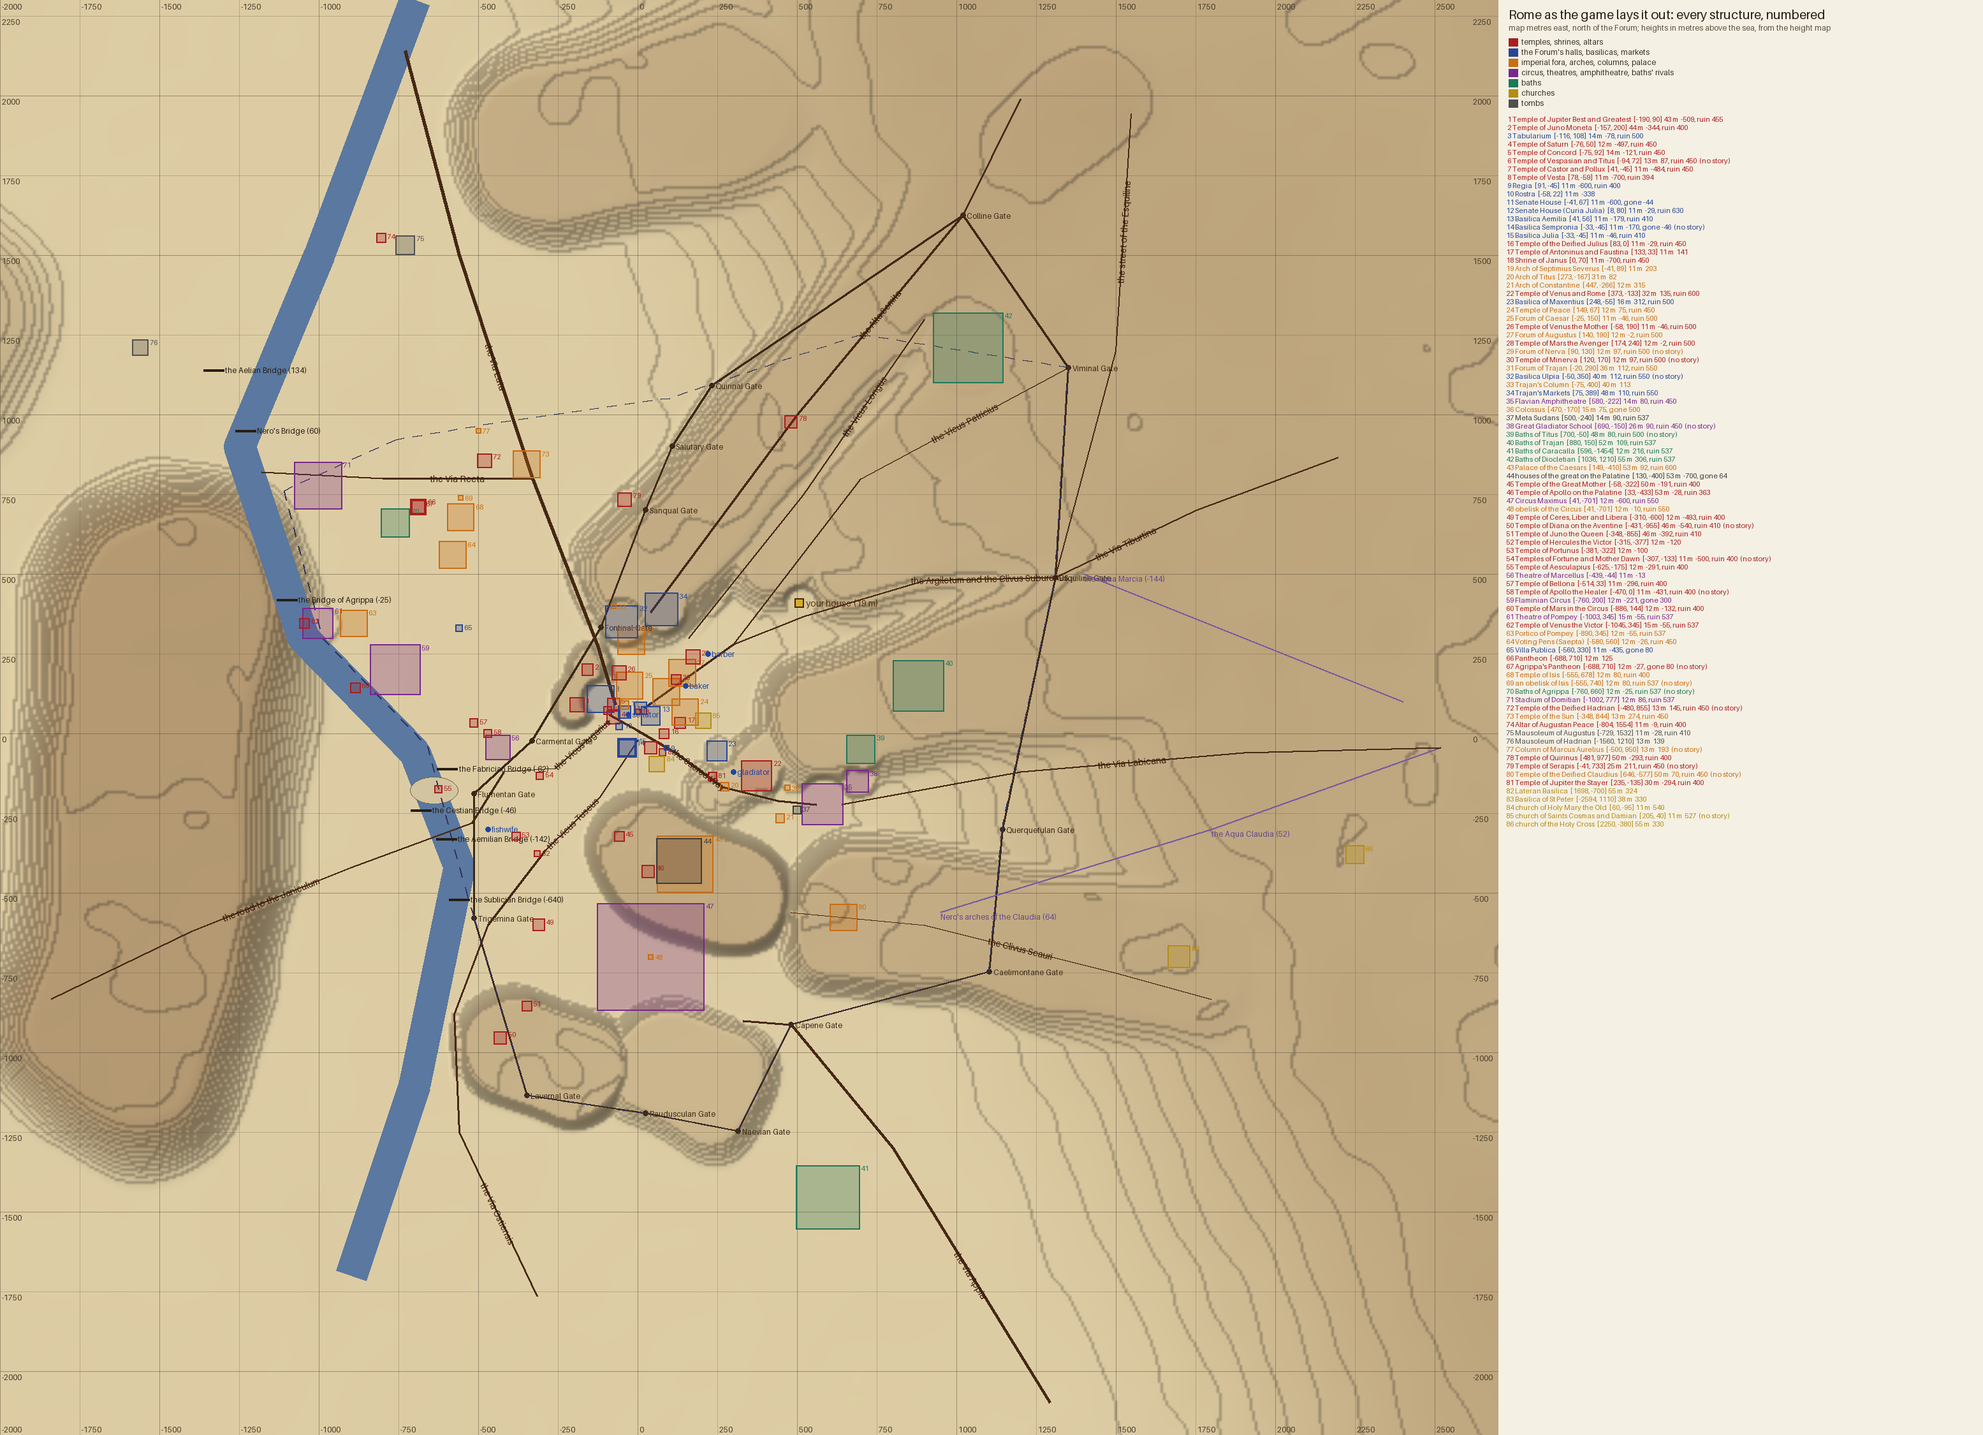
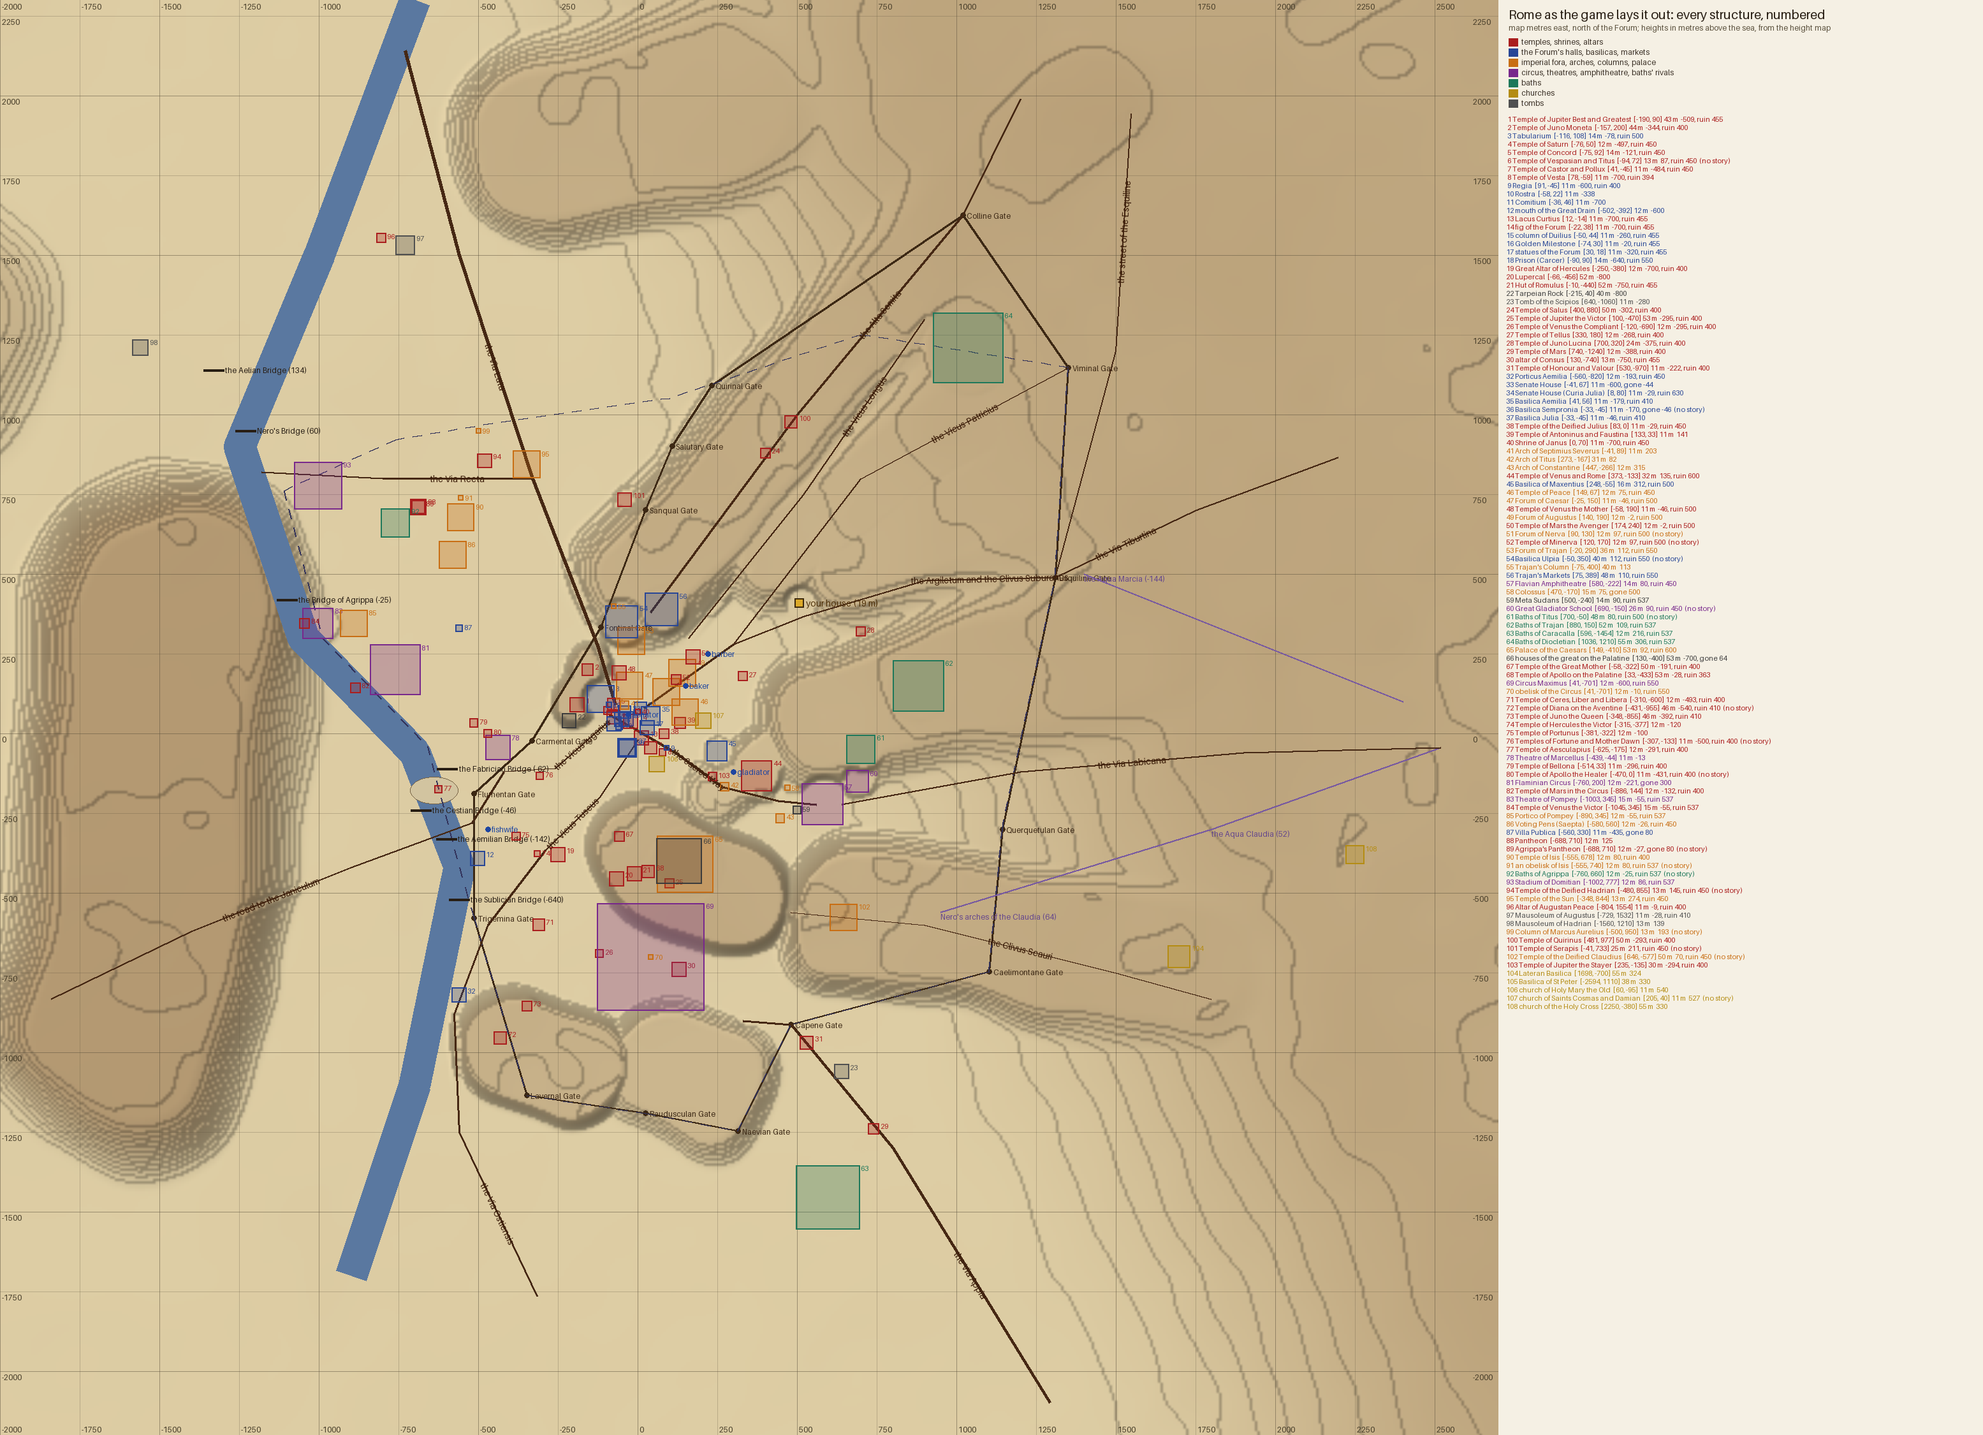
Built on what was there: the wall's towers, the kit's wolf and beasts, the map's landmarks
- The two tower monuments are gone: rome_map._servian_wall already builds a tower at every gate.
  Their notes, and one for each other gate, are read beside the gates (streets.json "gates").
- The fig's wolf is kit_rome.she_wolf; the flock's sheep and the cart's mules are
  kit_greek.beast.
- The Lupercal, the Hut of Romulus, the Tomb of the Scipios, Mars and Honos et Virtus are placed
  by republican_rome.json's landmarks and gates; the hill vegetation reads the map's hills.
- The Scipios' epitaph is on their tomb only, not on the road's list too.
- The corner names use the game's lapidary font; docs/rome-plot.png and .csv regenerated with
  the new structures.

Claude-Session: https://claude.ai/code/session_01AARYbqC8yC2UvqKJzaBPka

diff --git a/tools/make_rome_sites.py b/tools/make_rome_sites.py
@@ -47,15 +47,15 @@ NEW = [
     {"id": "ara_maxima", "name": "the Great Altar of Hercules", "kind": "altar_open", "at": [-250, -380], "face": 0, "from": -700, "ruin": 400,
      "note": "The Ara Maxima in the cattle market: the altar of Hercules, who killed the giant Cacus on the Aventine and recovered his stolen cattle here. The oldest cult in Rome, older than the city, kept by the Potitii and Pinarii until the state took it over; merchants tithe their profits to it; women may not attend and dogs are kept away.",
      "fall": "A block of tufa in the cattle market, the altar of a god nobody sacrifices to."},
-    {"id": "lupercal", "name": "the Lupercal", "kind": "cave", "at": [10, -300], "face": 350, "from": -800,
+    {"id": "lupercal", "name": "the Lupercal", "kind": "cave", "at": [-66, -456], "face": 250, "from": -800,
      "note": "The wolf's cave at the foot of the Palatine, where the she-wolf suckled the twins. On the fifteenth of February the Luperci, young men naked but for goat-skins, sacrifice goats and a dog here, and run round the hill striking the women they meet with thongs of the skins, for fertility. Antony offered Caesar a crown here in 44 BC. It goes on under Christian emperors until a pope stops it in 494.",
      "fall": "A cave under the Palatine's rock. The Lupercalia was stopped fifty-eight years ago; the last runners were senators."},
-    {"id": "casa_romuli", "name": "the Hut of Romulus", "kind": "hut", "at": [60, -330], "face": 20, "from": -750, "ruin": 455,
+    {"id": "casa_romuli", "name": "the Hut of Romulus", "kind": "hut", "at": [-10, -440], "face": 250, "from": -750, "ruin": 455,
      "note": "The Casa Romuli on the Palatine's slope toward the Circus: a round hut of wattle and thatch, kept up as it was in the founder's day by the priests, and rebuilt in the same materials every time it burns, which is often. Under the emperors it is a shrine among marble palaces, and they keep it.",
      "fall": "A ring of stones where the hut of the founder stood until the last fire, which nobody rebuilt after."},
     {"id": "tarpeia", "name": "the Tarpeian Rock", "kind": "rock", "at": [-215, 40], "face": 160, "size": 1.0, "from": -800,
      "note": "The cliff of the Capitol above the Forum, named for the girl who let the Sabines in and was crushed under their shields. Traitors, perjurers and runaway slaves are thrown from it. Manlius, who saved the Capitol from the Gauls, was thrown from the rock he saved."},
-    {"id": "scipios_tomb", "name": "the Tomb of the Scipios", "kind": "tomb", "tomb": "round", "at": [330, -1090], "face": 60, "from": -280,
+    {"id": "scipios_tomb", "name": "the Tomb of the Scipios", "kind": "tomb", "tomb": "round", "at": [640, -1060], "face": 330, "from": -280,
      "note": "The family tomb of the Cornelii Scipiones, cut into the tufa just inside the Capene Gate where the Appian Way begins: Scipio Barbatus, consul of 298 BC, in his carved sarcophagus, and his sons and grandsons in their niches, each with his verses in the old letters. Africanus is not here; he died angry at Rome and lies at Liternum.",
      "fall": "A tomb cut in the rock by the old gate, its sarcophagi robbed. The letters on them are the oldest Latin verses that survive."},
     {"id": "salus", "name": "the Temple of Salus", "kind": "temple", "at": [400, 880], "face": 200, "size": 0.7, "from": -302, "ruin": 400,
@@ -68,22 +68,21 @@ NEW = [
      "note": "The temple of the Earth (Tellus) on the Carinae, vowed in 268 BC in a battle with the Picentes during which the ground shook. It stands where the house of Spurius Cassius stood, pulled down when he was executed for aiming at kingship. A map of Italy is painted on its wall. The Senate met here on the day after Caesar's murder."},
     {"id": "juno_lucina", "name": "the Temple of Juno Lucina", "kind": "temple", "at": [700, 320], "face": 220, "size": 0.65, "from": -375, "ruin": 400,
      "note": "Juno who brings to light: the goddess of childbirth, on the Esquiline in her sacred grove, dedicated in 375 BC. On the first of March, the Matronalia, the married women of Rome climb here with their daughters and pray with their hair loose and every knot untied."},
-    {"id": "mars_capena", "name": "the Temple of Mars", "kind": "temple", "at": [420, -1180], "face": 300, "size": 0.75, "from": -388, "ruin": 400,
+    {"id": "mars_capena", "name": "the Temple of Mars", "kind": "temple", "at": [740, -1240], "face": 320, "size": 0.75, "from": -388, "ruin": 400,
      "note": "Mars outside the Capene Gate on the Appian Way, dedicated in 388 BC after the Gauls: the god of war kept outside the walls, as the old rule required. The army musters here before it marches out; the knights ride from here in July in their parade; the road from the gate to the temple was the first paved in Rome.",
      "fall": "Mars outside the gate, roofless. The road the army marched out on is grass between its stones."},
     {"id": "consus", "name": "the altar of Consus", "kind": "altar_open", "at": [130, -740], "face": 0, "from": -750, "ruin": 455,
      "note": "The buried altar of Consus, the god of the stored harvest, at the far turning post of the Circus, dug out only for his festival in August and December, when the horses and mules are garlanded and race, and the priests sacrifice on it. Romulus held his games for Consus here, and the Sabine women were carried off from them.",
      "fall": "A hollow at the end of the Circus's grass where an altar is buried. Nobody digs it out any more."},
-    {"id": "honos_virtus", "name": "the Temple of Honour and Valour", "kind": "double_temple", "at": [470, -1020], "face": 320, "size": 0.35, "from": -222, "ruin": 400,
+    {"id": "honos_virtus", "name": "the Temple of Honour and Valour", "kind": "double_temple", "at": [530, -970], "face": 320, "size": 0.35, "from": -222, "ruin": 400,
      "note": "Honos and Virtus by the Capene Gate: Marcellus, who took Syracuse in 212 BC, vowed a temple to both and the pontiffs would not let one temple hold two gods, so his son built two cells. Marcellus filled them with the statues of Syracuse, the first Greek art Rome ever saw, and old men complained of it for a generation."},
     {"id": "porticus_aemilia", "name": "the Porticus Aemilia", "kind": "portico", "at": [-560, -820], "face": 90, "size": 1.0, "from": -193, "ruin": 450,
      "note": "The Aemilian Portico by the river port, built by the aediles of 193 BC and rebuilt in 174: a warehouse of fifty vaulted bays of concrete, five hundred metres long, the biggest roof in the world, where the grain and wine and oil of the provinces land. The Emporium in front of it is the port of Rome.",
      "fall": "The great warehouse by the river port, its vaults standing, empty of everything but goats. The grain of Africa does not come."},
-    {"id": "tower_capena", "name": "the towers of the Capene Gate", "kind": "tower", "at": [300, -1015], "face": 150, "from": -378, "ruin": 455,
-     "note": "The Servian wall's towers at the Capene Gate, where the Appian Way leaves the city: tufa, from the wall built after the Gauls in 378 BC, ten metres high and four thick, with an aqueduct dripping over the gate since the Marcia was built, so that Juvenal calls it the wet gate. The wall has sixteen gates and the city is inside it, in the age of heroes and long after."},
-    {"id": "tower_esquilina", "name": "the towers of the Esquiline Gate", "kind": "tower", "at": [1000, 490], "face": 240, "from": -378, "ruin": 455,
-     "note": "The Servian wall's towers at the Esquiline Gate, on the city's east side, where the agger, the great earth rampart behind the wall, is highest: a hundred feet thick, with a ditch in front. The Sicilian slave leader Eunus, and Spartacus's men, and the Gauls were all expected here."},
 ]
+
+# Entries once added here and since folded into something that already existed.
+REMOVED = ["tower_capena", "tower_esquilina"]
 
 # site id -> age id -> {state? (whole unless said), variant?, style? (a temple's), note}
 SITES = {
@@ -193,6 +192,7 @@ def main() -> int:
             k = next(i for i, x in enumerate(city["monuments"]) if x["id"] == "curia_hostilia")
             city["monuments"].insert(k, m)
             by_id[m["id"]] = m
+    city["monuments"] = [m for m in city["monuments"] if m["id"] not in REMOVED]
     for site, states in SITES.items():
         m = by_id[site]
         m["states"] = {a: dict(states[a]) for a in AGES if a in states}

diff --git a/tools/make_rome_streets.py b/tools/make_rome_streets.py
@@ -7,6 +7,7 @@ content/rome/streets.json:
              Christian niche, then broken
   paving     what each named street is paved with (its "kind" of ribbon: basalt, travertine or earth)
   corners    the streets' names on the corner shops at their junctions, and how they are said
+  gates      what is said of each gate of the Servian wall (rome_map builds the wall and its towers)
 
     python3 tools/make_rome_streets.py
 """
@@ -19,8 +20,6 @@ ROOT = os.path.abspath(os.path.join(HERE, ".."))
 OUT = os.path.join(ROOT, "content", "rome", "streets.json")
 
 EPITAPHS = [
-    {"text": "STRANGER, STOP AND READ. HERE LIES LUCIUS CORNELIUS SCIPIO, AEDILE, CONSUL, CENSOR, WHO TOOK CORSICA AND THE CITY OF ALERIA.",
-     "note": "The old formula: the office, the deed, no feeling. The Scipios' tomb by the Capene Gate is the first of the line of tombs down the Appian Way."},
     {"text": "TO THE SPIRITS OF THE DEAD. GAIUS VETTIUS, FREEDMAN OF GAIUS, BAKER, LIVED 61 YEARS. ANTONIA HIS WIFE MADE THIS FOR HIM AND FOR HERSELF WHILE SHE LIVED.",
      "note": "A freedman's tomb: the trade named with pride, the wife's name after. D M at the top, to the spirits of the dead, on nearly every stone from the emperors on."},
     {"text": "STOP, TRAVELLER, AND LOOK TO YOUR LEFT. I WAS A CHILD OF NINE YEARS, THREE MONTHS AND FOUR DAYS. MY FATHER AND MOTHER SET THIS UP AND WEEP.",
@@ -80,6 +79,27 @@ PAVING = {
     "the street of the Esquiline": "earth",
 }
 
+# The gates of the Servian wall, as thresholds: what is said of each you can reach (rome_map builds
+# the wall and its towers; places_rome puts these notes at the gates).
+GATES = {
+    "Capene Gate": "The Servian wall's gate to the Appian Way, where the road south leaves the city: tufa, from the wall built after the Gauls in 378 BC, ten metres high and four thick, a tower each side, and an aqueduct dripping over it since the Marcia was built, so that Juvenal calls it the wet gate. The tombs begin outside it.",
+    "Esquiline Gate": "The gate on the city's east side, where the agger, the great earth rampart behind the wall, is highest: a hundred feet thick with a ditch in front. The Gauls, Hannibal, the slave armies were all expected here; the executioners' ground and the paupers' pits lie outside it.",
+    "Carmental Gate": "The gate under the Capitol toward the river, named for Carmenta, Evander's mother. The three hundred and six Fabii marched out of its right-hand arch to die at the Cremera, and no one uses that arch since.",
+    "Trigemina Gate": "The triple gate to the river port and the road to Ostia, under the Aventine: the busiest of them all, the carts of grain and oil going in and out of the Emporium.",
+    "Colline Gate": "The gate at the north end of the Quirinal, where the Salarian Way leaves: Hannibal rode up to it in 211 BC and looked at the walls, and Sulla fought the Samnites under it in 82 BC and won Rome.",
+    "Fontinal Gate": "The gate of the springs, on the Capitol's north side toward the Campus, where the Via Lata goes out to the Flaminian Way.",
+    "Caelimontane Gate": "The gate on the Caelian toward the Latin Way. Under the emperors the wall is a line of stones through people's yards here, and the gate an arch in a street.",
+    "Naevian Gate": "The gate through the Aventine's back toward the Ardeatine Way and the sheep pastures south of the city.",
+    "Raudusculan Gate": "The bronze-sheathed gate at the Aventine's foot, said to be named for the raw bronze (raudus) on its doors, or for a general's horns.",
+    "Lavernal Gate": "The gate of Laverna, the goddess of thieves, on the Aventine's west side, with her grove and altar beside it.",
+    "Flumentan Gate": "The river gate, low on the bank below the Capitol, where the Tiber floods in first.",
+    "Sanqual Gate": "The gate of Sancus, the Sabine god of oaths, on the Quirinal's south side.",
+    "Salutary Gate": "The gate by the Temple of Salus on the Quirinal's brow.",
+    "Quirinal Gate": "The gate at the Quirinal's north, where the road to the Sabine country climbs out.",
+    "Viminal Gate": "The gate in the agger between the Viminal and the Esquiline, the wall at its strongest.",
+    "Querquetulan Gate": "The oak-grove gate, between the Esquiline and the Caelian, named for the grove that stood here before the city reached it.",
+}
+
 CORNERS = {
     "note": "The Romans put no names on their streets: you asked. The painted names on the corner shops are for you, in the letters the shops' notices used.",
     "letters": "red",
@@ -94,6 +114,7 @@ def main() -> int:
         "compita": COMPITA,
         "paving": PAVING,
         "corners": CORNERS,
+        "gates": GATES,
     }
     with open(OUT, "w", encoding="utf-8") as f:
         json.dump(data, f, indent=2, ensure_ascii=False)

diff --git a/tools/plot_rome.py b/tools/plot_rome.py
@@ -48,6 +48,8 @@ KIND_GROUP = {
     "hall": "civic", "curia": "civic", "basilica": "civic", "rostra": "civic", "tabularium": "civic", "vaulted_hall": "civic",
     "markets": "civic", "forum": "imperial", "arch": "imperial", "column": "imperial", "colossus": "imperial", "obelisk": "imperial",
     "palace": "imperial", "houses": "other", "fountain_cone": "other",
+    "comitium": "civic", "cloaca": "civic", "beak_column": "civic", "lacus": "sacred", "fig": "sacred", "milliarium": "civic",
+    "statues": "civic", "tomb": "tomb", "altar_open": "sacred", "hut": "sacred", "cave": "sacred", "rock": "other", "portico": "civic",
     "amphitheatre": "shows", "ludus": "shows", "circus": "shows", "open_circus": "shows", "theatre": "shows", "stadium": "shows",
     "baths": "baths", "church": "church", "mausoleum": "tomb",
 }

diff --git a/docs/rome-city.md b/docs/rome-city.md
@@ -125,8 +125,11 @@ Decided with BB1 (2026-09-28):
 - **The age of heroes' twenty structures** (same file): the Comitium, the Carcer, the Cloaca's
   mouth, the Lacus Curtius, the Ara Maxima, the Lupercal, the Hut of Romulus, the Tarpeian Rock,
   Duilius's column, the Tomb of the Scipios, Salus, Jupiter Victor, Venus Obsequens, Tellus, Juno
-  Lucina, Mars outside the Capene Gate, the altar of Consus, Honos and Virtus, the Porticus Aemilia
-  and the wall's towers at the Capene and Esquiline gates, each with a note.
+  Lucina, Mars outside the Capene Gate, the altar of Consus, Honos and Virtus and the Porticus
+  Aemilia, each with a note, placed by the map's own landmarks (`republican_rome.json`). The wall's
+  towers are the ones `_servian_wall` already builds at every gate; each gate you can reach has its
+  note beside them (`streets.json` "gates"). The wolf under the fig is `kit_rome.she_wolf`, the
+  sheep and the mules are `kit_greek.beast`.
 - **The streets** (`content/rome/streets.json`, `tools/make_rome_streets.py`):
   - Paving per street: the Sacred Way in travertine (under the emperors), the main roads in basalt,
     the alleys of the Subura and the hills in packed earth.

diff --git a/docs/rome-city-notes.md b/docs/rome-city-notes.md
@@ -11,7 +11,10 @@ in the corner, the gates as thresholds, the rides and the toad's way home in `ha
 beds in `urbs_town.gd`; the light per age in `urbs_life.gd` and `places_rome.gd`. The reference is
 `docs/rome-city.md` (the fabric, the light, the sound) and `docs/rome-activities.md` (the plan, the
 rides); the flock driven down the Vicus Tuscus and the mule cart on the Via Lata in
-`urbs_town._herds`. Nothing in these notes is left unbuilt.
+`urbs_town._herds`. Nothing in these notes is left unbuilt. Built on what was there: the wall's
+towers (`_servian_wall`), the she-wolf and the beasts of the kit, the map's landmarks and hills,
+the existing sounds, textures, fonts and the `offering` scene; the plot (`docs/rome-plot.png`) is
+regenerated with the new structures on it.
 
 They follow the audit of 2026-09-29 (86 structures, the seven-age overhead captures in `docs/dev/`,
 the plot in `docs/rome-plot.png`) and the walks taken for the screenshots. The two questions are
